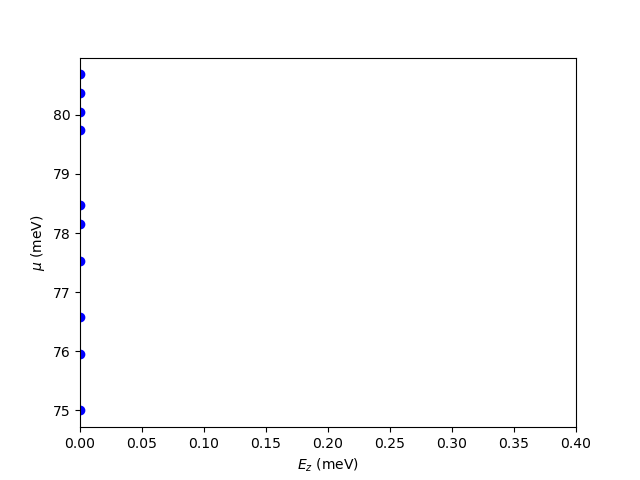
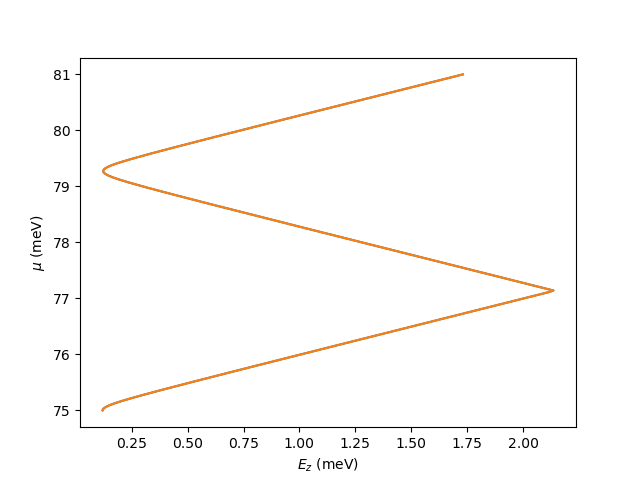
gam finder, phase diagram

diff --git a/JJ/paper_reproduction/phase/Mu_Gx.py b/JJ/paper_reproduction/phase/Mu_Gx.py
@@ -5,7 +5,7 @@ import majoranaJJ.operators.sparse.qmsops as spop #sparse operators
 import majoranaJJ.lattice.nbrs as nb #neighbor arrays
 import majoranaJJ.lattice.shapes as shps #lattice shapes
 import majoranaJJ.modules.plots as plots #plotting functions
-#from majoranaJJ.modules.mufinder import mufinder
+from majoranaJJ.modules.gamfinder import gamfinder
 
 Nx = 4 #Number of lattice sites along x-direction
 Ny = 80 #Number of lattice sites along y-direction
@@ -24,48 +24,41 @@ print("Lattice Size: ", lat_size)
 Lx = (max(coor[:, 0]) - min(coor[:, 0]) + 1)*ax #Unit cell size in x-direction
 Ly = (max(coor[:, 1]) - min(coor[:, 1]) + 1)*ay #Unit cell size in y-direction
 
-steps = 20
+steps = 200
 
 alpha = 100 #Spin-Orbit Coupling constant: [meV*A]
-gammaz = 0 #Zeeman field energy contribution: [meV]
-gammax = np.linspace(0, 0.4, steps) #parallel to junction: [meV]
+gammax_i = 0.01 #parallel to junction: [meV]
+gammaz = 0.0
 phi = [0, np.pi] #SC phase difference
 delta = 0.15 #Superconducting Gap: [meV]
 V0 = 0.0 #Amplitude of potential : [meV]
 mu = np.linspace(75, 81, steps) #Chemical Potential: [meV]
 
-mu_pi = []
 gamx_pi = []
-mu_0 = []
+mu_arr = []
 gamx_0 = []
 
-tlrnce = 1e-5
 for i in range(steps):
-    print(steps - i)
-    for j in range(steps):
-        energy_p0 = spop.EBDG(coor, ax, ay, NN, NNb=NNb, Wj=Wj, mu=mu[j], gammax=gammax[i], alpha=alpha, delta=delta, phi=phi[0], periodicX=True, k=2, maxiter=300)
+    print(steps-i)
+    gammax0 = gamfinder(
+        coor, ax, ay, NN, mu[i], NNb = NNb, Wj = Wj, alpha = alpha, delta = delta, phi = 0, gammax = gammax_i, periodicX = True
+        )
+    gammaxpi = gamfinder(
+        coor, ax, ay, NN, mu[i], NNb = NNb, Wj = Wj, alpha = alpha, delta = delta, phi = np.pi, gammax = gammax_i, periodicX = True
+        )
 
-        energy_ppi = spop.EBDG(coor, ax, ay, NN, NNb=NNb, Wj=Wj, mu=mu[j], gammax=gammax[i], alpha=alpha, delta=delta, phi=phi[1], periodicX=True, k=2, maxiter=300)
+    mu_arr.append(mu[i])
+    gamx_0.append(gammax0)
+    gamx_pi.append(gammaxpi)
 
-        energy_p0, energy_ppi = np.array(energy_p0), np.array(energy_ppi)
+mu_arr, gamx_0, gamx_pi = np.array(mu_arr), np.array(gamx_0), np.array(gamx_pi)
 
-        if abs(energy_p0[0] - energy_p0[1]) <= tlrnce:
-            plt.scatter(gammax[i], mu[j], c='b')
-            mu_0.append(mu[j])
-            gamx_0.append(gammax[i])
-
-        #if abs(energy_ppi[0] - energy_ppi[1]) <= tlrnce:
-            #mu_bnd2.append(mu[j])
-            #gamx_bnd2.append(gammax[i])
-
-#plt.scatter(gamx_bnd2, mu_bnd2, label = r'$\phi = \pi$')
-#plt.scatter(gamx_bnd1, mu_bnd1, label = r'$\phi = 0$')
+plt.plot(gamx_0, mu_arr, c='r', ls='solid', label = r'$\phi = 0$')
+plt.plot(gamx_pi, mu_arr, c='k', ls='solid', label = r'$\phi = \pi$')
 
 plt.xlabel(r'$E_z$ (meV)')
 plt.ylabel(r'$\mu$ (meV)')
 
-plt.xlim(min(gammax), max(gammax))
-
-plt.savefig('mu_gx.png')
+plt.savefig('mu_arr_gx.png')
 plt.legend()
 plt.show()

diff --git a/JJ/nodule/bands/BDG_Bands.py b/JJ/nodule/bands/BDG_Bands.py
@@ -1,0 +1,45 @@
+import numpy as np
+
+import majoranaJJ.operators.sparse.qmsops as spop #sparse operators
+import majoranaJJ.lattice.nbrs as nb #neighbor arrays
+import majoranaJJ.lattice.shapes as shps #lattice shapes
+import majoranaJJ.modules.plots as plots #plotting functions
+
+Nx = 4 #Number of lattice sites allong x-direction
+Ny = 80 #Number of lattice sites along y-direction
+ax = 50 #lattice spacing in x-direction: [A]
+ay = 50 #lattice spacing in y-direction: [A]
+Wj = 16  #Junction region
+print("Junction Width = ", Wj*ay*.10, "(nm)")
+print("Supercondicting Lead Width = ", ((Ny - Wj)*ay*.10)/2, "(nm)")
+
+coor = shps.square(Nx, Ny) #square lattice
+NN = nb.NN_Arr(coor) #neighbor array
+NNb = nb.Bound_Arr(coor) #boundary array
+lat_size = coor.shape[0]
+print("Lattice Size: ", lat_size)
+
+Lx = (max(coor[:, 0]) - min(coor[:, 0]) + 1)*ax #Unit cell size in x-direction
+Ly = (max(coor[:, 1]) - min(coor[:, 1]) + 1)*ay #Unit cell size in y-direction
+
+#Hamiltonian Parameters
+alpha = 100 #Spin-Orbit Coupling constant: [meV*A]
+gammaz = 0 #Zeeman energy normal to system: [meV]
+gammax = 0 #Zeeman energy in plane of junction: [meV]
+phi = np.pi #SC phase difference
+delta = 0.15 #Superconducting Gap: [meV]
+V0 = 0.0 #Amplitude of potential : [meV]
+mu = 0.327 #Chemical Potential: [meV]
+
+num = 24 # This is the number of eigenvalues and eigenvectors you want
+steps = 51 #Number of kx and ky values that are evaluated
+qx = np.linspace(-0.1*np.pi/Lx, 0.1*np.pi/Lx, steps) #kx in the first Brillouin zone
+qy = np.linspace(-np.pi/Ly, np.pi/Ly, steps) #ky in the first Brillouin zone
+
+bands = np.zeros((steps, num))
+for i in range(steps):
+    #print(steps - i)
+    energy = spop.EBDG(coor, ax, ay, NN, NNb=NNb, Wj=Wj, alpha=alpha, delta=delta, phi = phi, gammax=gammax, gammaz=gammaz, mu=mu, qx=qx[i], periodicX=True, periodicY=False, k=num)
+
+    bands[i, :] = energy
+plots.bands(qx, bands, units = "[meV]", ylim = [-1.5, 1.5], savenm = 'bands_ex.png')

diff --git a/modules/gamfinder.py b/modules/gamfinder.py
@@ -1,0 +1,37 @@
+import majoranaJJ.operators.sparse.qmsops as spop #sparse operators
+
+def gamfinder(
+    coor, ax, ay, NN, mu, NNb = None, Wj = 0, Sx = 0, cutx = 0, cuty = 0, V = 0, gammax = 0, gammay = 0, gammaz = 0, alpha = 0, delta = 0 , phi = 0, qx = 0, qy = 0, periodicX = False, periodicY = False,
+    k = 2, sigma = 0, which = 'LM', tol = 0, maxiter = None
+    ):
+
+    Ei = spop.EBDG(
+        coor, ax, ay, NN, NNb = NNb, Wj = Wj,
+        Sx = Sx, cutx = cutx, cuty = cuty,
+        V = V, mu = mu,
+        gammax = gammax, gammay = gammay, gammaz = gammaz,
+        alpha = alpha, delta = delta, phi = phi,
+        qx = qx, qy = qy,
+        periodicX = periodicX, periodicY = periodicY,
+        k = k, sigma = sigma, which = which, tol = tol, maxiter = maxiter
+        )[1]
+
+    deltaG = 0.01
+    gammanew = gammax + deltaG
+
+    Ef = spop.EBDG(
+        coor, ax, ay, NN, NNb = NNb, Wj = Wj,
+        Sx = Sx, cutx = cutx, cuty = cuty,
+        V = V, mu = mu,
+        gammax = gammanew, gammay = gammay, gammaz = gammaz,
+        alpha = alpha, delta = delta, phi = phi,
+        qx = qx, qy = qy,
+        periodicX = periodicX, periodicY = periodicY,
+        k = k, sigma = sigma, which = which, tol = tol, maxiter = maxiter
+        )[1]
+
+    m = (Ef - Ei)/(gammanew - gammax)
+    b = Ei - m*gammax
+    G_crit = -b/m
+
+    return G_crit
